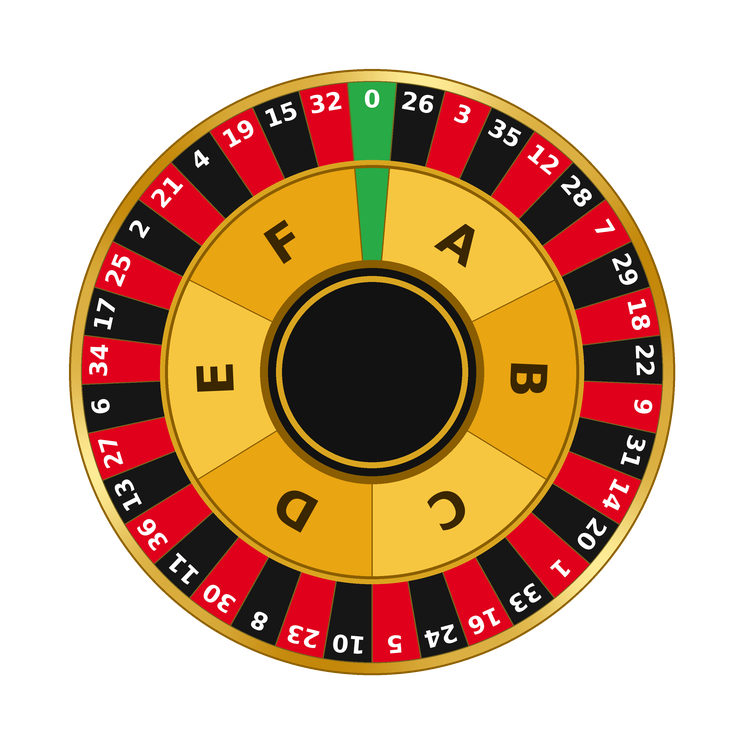
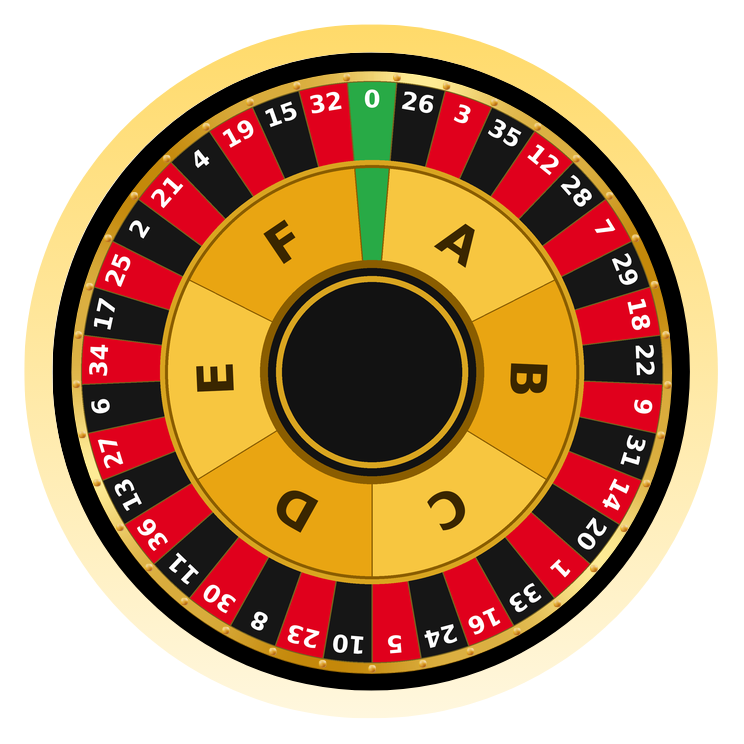
Acttualizacion de la ruleta

Changed region(s): [[0.0309, 0.0309, 0.9892, 0.9892]]

diff --git a/src/components/ruleta/ruleta.jsx b/src/components/ruleta/ruleta.jsx
@@ -1,6 +1,7 @@
-import React, { useState, useEffect } from "react";
+import React, { useState, useEffect, useRef } from "react";
 import Footer from "../footer";
 import ruletaimg from  "./img/ruleta.png";
+import esferaimg from  "./img/esfera.png";
 import bolaimg from  "./img/bola.png";
 
 import logokeskplay from  "../../img/logo_keskplay.png";
@@ -71,9 +72,36 @@ import Audio from "./audio/roullette.mp3";
 
 function Ruleta({ urlApi }) {
 
+  const buildRandomPocketValues = () =>
+    Array.from({ length: 37 }, () => 0);
+
+  const rouletteNumbers = [
+    0, 32, 15, 19, 4, 21, 2, 25, 17, 34, 6, 27, 13, 36, 11, 30, 8, 23, 10, 5,
+    24, 16, 33, 1, 20, 14, 31, 9, 22, 18, 29, 7, 28, 12, 35, 3, 26
+  ];
+
+  const redNumbers = new Set([1, 3, 5, 7, 9, 12, 14, 16, 18, 19, 21, 23, 25, 27, 30, 32, 34, 36]);
+
+  const pocketRing = rouletteNumbers.map((value, index) => {
+    const angle = (index / rouletteNumbers.length) * Math.PI * 2 - Math.PI / 2;
+    const radius = 415;
+    const centerX = 450;
+    const centerY = 450;
+
+    return {
+      value,
+      left: centerX + Math.cos(angle) * radius,
+      top: centerY + Math.sin(angle) * radius,
+      className: value === 0 ? "green" : redNumbers.has(value) ? "red" : "black",
+    };
+  });
+
   const [sorteo, setSorteo] = useState([]);
   const [ejecutarSorteo, setEjecutarSorteo] = useState(false);  
   const [mostrarjackpot, setMostrarjackpot] = useState(false);
+  const [pocketValues, setPocketValues] = useState(buildRandomPocketValues);
+  const [isSorteoEnCurso, setIsSorteoEnCurso] = useState(false);
+  const previousSorteoIdRef = useRef(null);
 
   useEffect(() => {
     document.body.style.background = '#024905';
@@ -111,6 +139,7 @@ function Ruleta({ urlApi }) {
     // Set the document title
 
     if(ejecutarSorteo) {
+      setIsSorteoEnCurso(true);
       setEjecutarSorteo(false);
       console.log("Ejecutando el sorteo #", sorteo.idsorteo);
       resultadoSorteo(sorteo.idsorteo, fetchSorteo, setMostrarjackpot);
@@ -128,7 +157,63 @@ function Ruleta({ urlApi }) {
   }
   , []);
 
+  useEffect(() => {
+    if (!sorteo?.idsorteo) {
+      return;
+    }
 
+    const isFirstLoad = previousSorteoIdRef.current === null;
+    const isNewSorteo = previousSorteoIdRef.current !== sorteo.idsorteo;
+
+    if (isFirstLoad || isNewSorteo) {
+      setIsSorteoEnCurso(false);
+      setPocketValues(buildRandomPocketValues());
+      previousSorteoIdRef.current = sorteo.idsorteo;
+    }
+  }, [sorteo?.idsorteo]);
+
+  useEffect(() => {
+    if (!sorteo?.idsorteo || isSorteoEnCurso) {
+      return;
+    }
+
+    const incrementTimer = setInterval(() => {
+      setPocketValues((prevValues) => {
+        if (prevValues.length === 0) {
+          return prevValues;
+        }
+
+        const nextValues = [...prevValues];
+        const updateCount = Math.min(10, nextValues.length);
+        const usedIndexes = new Set();
+
+        while (usedIndexes.size < updateCount) {
+          const randomIndex = Math.floor(Math.random() * nextValues.length);
+          if (usedIndexes.has(randomIndex)) {
+            continue;
+          }
+
+          usedIndexes.add(randomIndex);
+          const incrementValue = Math.floor(Math.random() * 10) + 1;
+          nextValues[randomIndex] = (nextValues[randomIndex] + incrementValue) % 1000;
+        }
+
+        return nextValues;
+      });
+    }, 1000);
+
+    return () => {
+      clearInterval(incrementTimer);
+    };
+  }, [sorteo?.idsorteo, isSorteoEnCurso]);
+
+
+  const highestPocketIndex = pocketValues.length > 0
+    ? pocketValues.reduce(
+        (highestIndex, value, index, values) => value > values[highestIndex] ? index : highestIndex,
+        0
+      )
+    : -1;
   
   return (
     <>
@@ -184,17 +269,32 @@ function Ruleta({ urlApi }) {
             
 
             <div className={styles.izquierda} id="izquierda" >
+              <Evento sorteo={sorteo} urlApi={urlApi} setEjecutarSorteo={setEjecutarSorteo} />
               <Logo sorteo={sorteo} urlApi={urlApi} />
+              
               <div className={styles.jackpotBottom}>
                 <Jackpot sorteo={sorteo} />
               </div>
             </div>
 
 
-            <div className={styles.centro} id="centro" >
-              <div className={styles.wheelShell}>
+            <div className={styles.centro} id="centro" >              
+              <div className={styles.wheelShell}>                
                 <img src={ruletaimg} alt="" className={styles.imgruleta} id="img-sorteo"/>
                 <img src={bolaimg} alt="" className={styles.bola} id="img-bola"/>
+                <img src={esferaimg} alt="" className={styles.imgesfera} id="img-esfera"/>
+
+                <div className={styles.pocketRing} aria-hidden="true">
+                  {pocketRing.map(({ value, left, top, className }, index) => (
+                    <div
+                      key={value === 0 ? "zero" : value}
+                      className={`${styles.pocket} ${styles[className]} ${index === highestPocketIndex ? styles.highest : ""}`}
+                      style={{ left, top }}
+                    >
+                      {pocketValues[index] ?? 0}
+                    </div>
+                  ))}
+                </div>
               </div>
             </div>
 
@@ -203,13 +303,8 @@ function Ruleta({ urlApi }) {
 
 
             <div className={styles.derecha} id="derecha">
-              <Evento sorteo={sorteo} urlApi={urlApi} setEjecutarSorteo={setEjecutarSorteo} />
-              
               
               <Derecha sorteo={sorteo} urlApi={urlApi} />
-              
-              
-              
               
             </div>
           </div>

diff --git a/src/components/ruleta/js/index.js b/src/components/ruleta/js/index.js
@@ -60,10 +60,12 @@ export function EjecutarRuleta(valor)
     }
     //data Para resultados aleatorios, según la probabilidad del resultado
     // 1 ~ 38 números aleatorios (en data meto el número de parada)
-    var sincro=0;
+    
     //data = data[Math.floor(Math.random() * data.length)];
     //data=1;
-    sincro = Math.floor(Math.random() * 360);
+    //var sincro=0;
+    //sincro = Math.floor(Math.random() * 360);
+    const sincro = Math.floor(Math.random() * 9) - 4;
     var ronda = 10; // tiempos iniciales, introducidos por el fondo
     var isture = 0;
 
@@ -81,7 +83,7 @@ export function EjecutarRuleta(valor)
                 rotateFunc(2, 58+sincro, 'Dos');
                 break;
             case 3:
-                rotateFunc(3, 341+sincro, 'Tres');
+                rotateFunc(3, 341+sincro, 'Tres');//341
                 break;
             case 4:
                 rotateFunc(4, 39+sincro, 'Cuatro');
@@ -105,7 +107,7 @@ export function EjecutarRuleta(valor)
                 rotateFunc(10, 175+sincro, 'Diez');
                 break;
             case 11:
-                rotateFunc(11, 136+sincro, 'Once');
+                rotateFunc(11, 136+sincro, 'Once');//136
                 break;
             case 12:
                 rotateFunc(12, 321+sincro, 'Doce');
@@ -435,10 +437,12 @@ export function resultadoSorteo(idsorteo, fetchSorteo, setMostrarjackpot)
                             fetch('https://api.keskplay.com/api/ruleta/sorteo/'+idsorteo)
                             .then(response => response.json())
                             .then(function (data){
+                                                    
                                                     if (data.cerrada == 1){                            
                                                         console.log(parseInt(data.numero));
                                                         clearInterval(myInterval);
                                                         EjecutarRuleta(parseInt(data.numero));
+                                                        //EjecutarRuleta(parseInt(11));
                                                         setTimeout(() => {
                                                             fetchSorteo();    
                                                             verificarjackpot(idsorteo, setMostrarjackpot);
@@ -452,11 +456,11 @@ export function resultadoSorteo(idsorteo, fetchSorteo, setMostrarjackpot)
                             },1000);    
    }
 
-function contador_segundos()
+function contador_segundoss()
 {
     
     
-        let cont = document.querySelector("#text_contador").value;			
+        let cont = document.querySelector("#text_contador").value;			        
         cont--;	
         document.querySelector("#text_contador").value = cont;
 

diff --git a/src/components/ruleta/ruleta.module.css b/src/components/ruleta/ruleta.module.css
@@ -1,4 +1,3 @@
-
 .wrapper {
   position: fixed;
   inset: 0;
@@ -83,11 +82,8 @@
 .wheelShell {
   position: relative;
   z-index: 1;
-  display: flex;
-  justify-content: center;
-  align-items: center;
-  width: 950px;
-  height: 950px;
+  width: 900px;
+  height: 900px;
   transform-origin: center center;
   transform: scale(var(--roulette-scale, 1));
 }
@@ -115,16 +111,83 @@
 	
 } 
 
-.imgruleta{
-  width: 950px;
-  filter: drop-shadow(0 26px 28px rgba(0,0,0,0.42));
+.imgesfera {
+  position: absolute;
+  left: 50%;
+  top: 50%;
+  width: 900px;
+  margin-left: -450px;
+  margin-top: -450px;
+  z-index: 3;
+  pointer-events: none;
 }
 
-.bola{	
-    width: 775px;	
-	position: absolute;	
-    border: 0px solid yellow;
-    filter: drop-shadow(0 12px 18px rgba(0,0,0,0.5));
+.imgruleta {
+  position: absolute;
+  left: 50%;
+  top: 50%;
+  width: 900px;
+  margin-left: -450px;
+  margin-top: -450px;
+  filter: drop-shadow(0 26px 28px rgba(0,0,0,0.42));
+  z-index: 1;
+}
+
+.bola {
+  position: absolute;
+  left: 50%;
+  top: 50%;
+  width: 720px;
+  margin-left: -360px;
+  margin-top: -360px;
+  border: 0px solid yellow;
+  filter: drop-shadow(0 12px 18px rgba(0,0,0,0.5));
+  z-index: 2;
+}
+
+.pocketRing {
+  position: absolute;
+  left: 50%;
+  top: 50%;
+  width: 900px;
+  height: 900px;
+  transform: translate(-50%, -50%);
+  z-index: 4;
+  pointer-events: none;
+}
+
+.pocket {
+  position: absolute;
+  width: 45px;
+  height: 45px;
+  border-radius: 50%;
+  display: flex;
+  align-items: center;
+  justify-content: center;
+  font-size: 17px;
+  font-weight: 800;
+  transform: translate(-50%, -50%);
+  border: 2px solid rgba(255, 204, 89, 0.9);
+  box-shadow: inset 0 0 0 2px rgba(0, 0, 0, 0.08), 0 2px 6px rgba(0, 0, 0, 0.18);
+  color: black;
+  line-height: 1;
+}
+
+.pocket.red {
+  background: #ffffff;
+}
+
+.pocket.black {
+  background: #ffffff;
+}
+
+.pocket.green {
+  background: #ffffff;
+}
+
+.pocket.highest {
+  background: #d50000;
+  color: #ffffff;
 }
 
 @media (max-width: 1500px) {

diff --git a/src/components/ruleta/evento.jsx b/src/components/ruleta/evento.jsx
@@ -9,8 +9,10 @@ function getSegundos(segundos) {
 
 function Evento({ sorteo, setEjecutarSorteo }) {
     const[tiempo, setTiempo] = useState(sorteo.segundos || 0);
+    
     useEffect(() => {
                     setTiempo(sorteo.segundos || 0);
+                    //setTiempo(5 || 0);
                     const intervalo = setInterval(() => {
                                                             setTiempo(prev => {
                                                                                 if (prev <= 1) {
@@ -30,9 +32,7 @@ function Evento({ sorteo, setEjecutarSorteo }) {
   return (
             <>
             <div className="card bg-transparent">
-                <div className="card-header fs-4 text-center bg-warning text-dark fw-bold">
-                    Sorteo #{sorteo.idsorteo}
-                </div>
+                
                 <div className="card-body  fs-1 text-warning fw-bold text-center p-0">
                     { getSegundos(tiempo) }
                 </div>

diff --git a/src/components/ruleta/derecha.jsx b/src/components/ruleta/derecha.jsx
@@ -96,6 +96,13 @@ function derecha({ sorteo, urlApi}){
 
   return (
         <>
+
+        <table className={styles.tabladerecha}>
+        <tr>
+            <td className="h4 text-white">PARTIDA # {sorteo.idsorteo}
+            </td>
+        </tr>
+        </table>
         
         <table className={styles.tabladerecha}> 
             <tr>

diff --git a/src/components/ruleta/logo.jsx b/src/components/ruleta/logo.jsx
@@ -1,4 +1,5 @@
-import logokeskplay from "../../img/logo_keskplay.png";
+//import logokeskplay from "../../img/logo_keskplay.png";
+import logokeskplay from "./img/spintowin.png";
 import styles from "./logo.module.css";
 function Logo({sorteo}) {
   return (

diff --git a/src/components/ruleta/logo.module.css b/src/components/ruleta/logo.module.css
@@ -1,6 +1,6 @@
 /* Izquierdo.module.css */
 .logo {
-  width: 200px;
+  width:auto;
   height: auto;
   display: block;
   margin: 0 auto;
